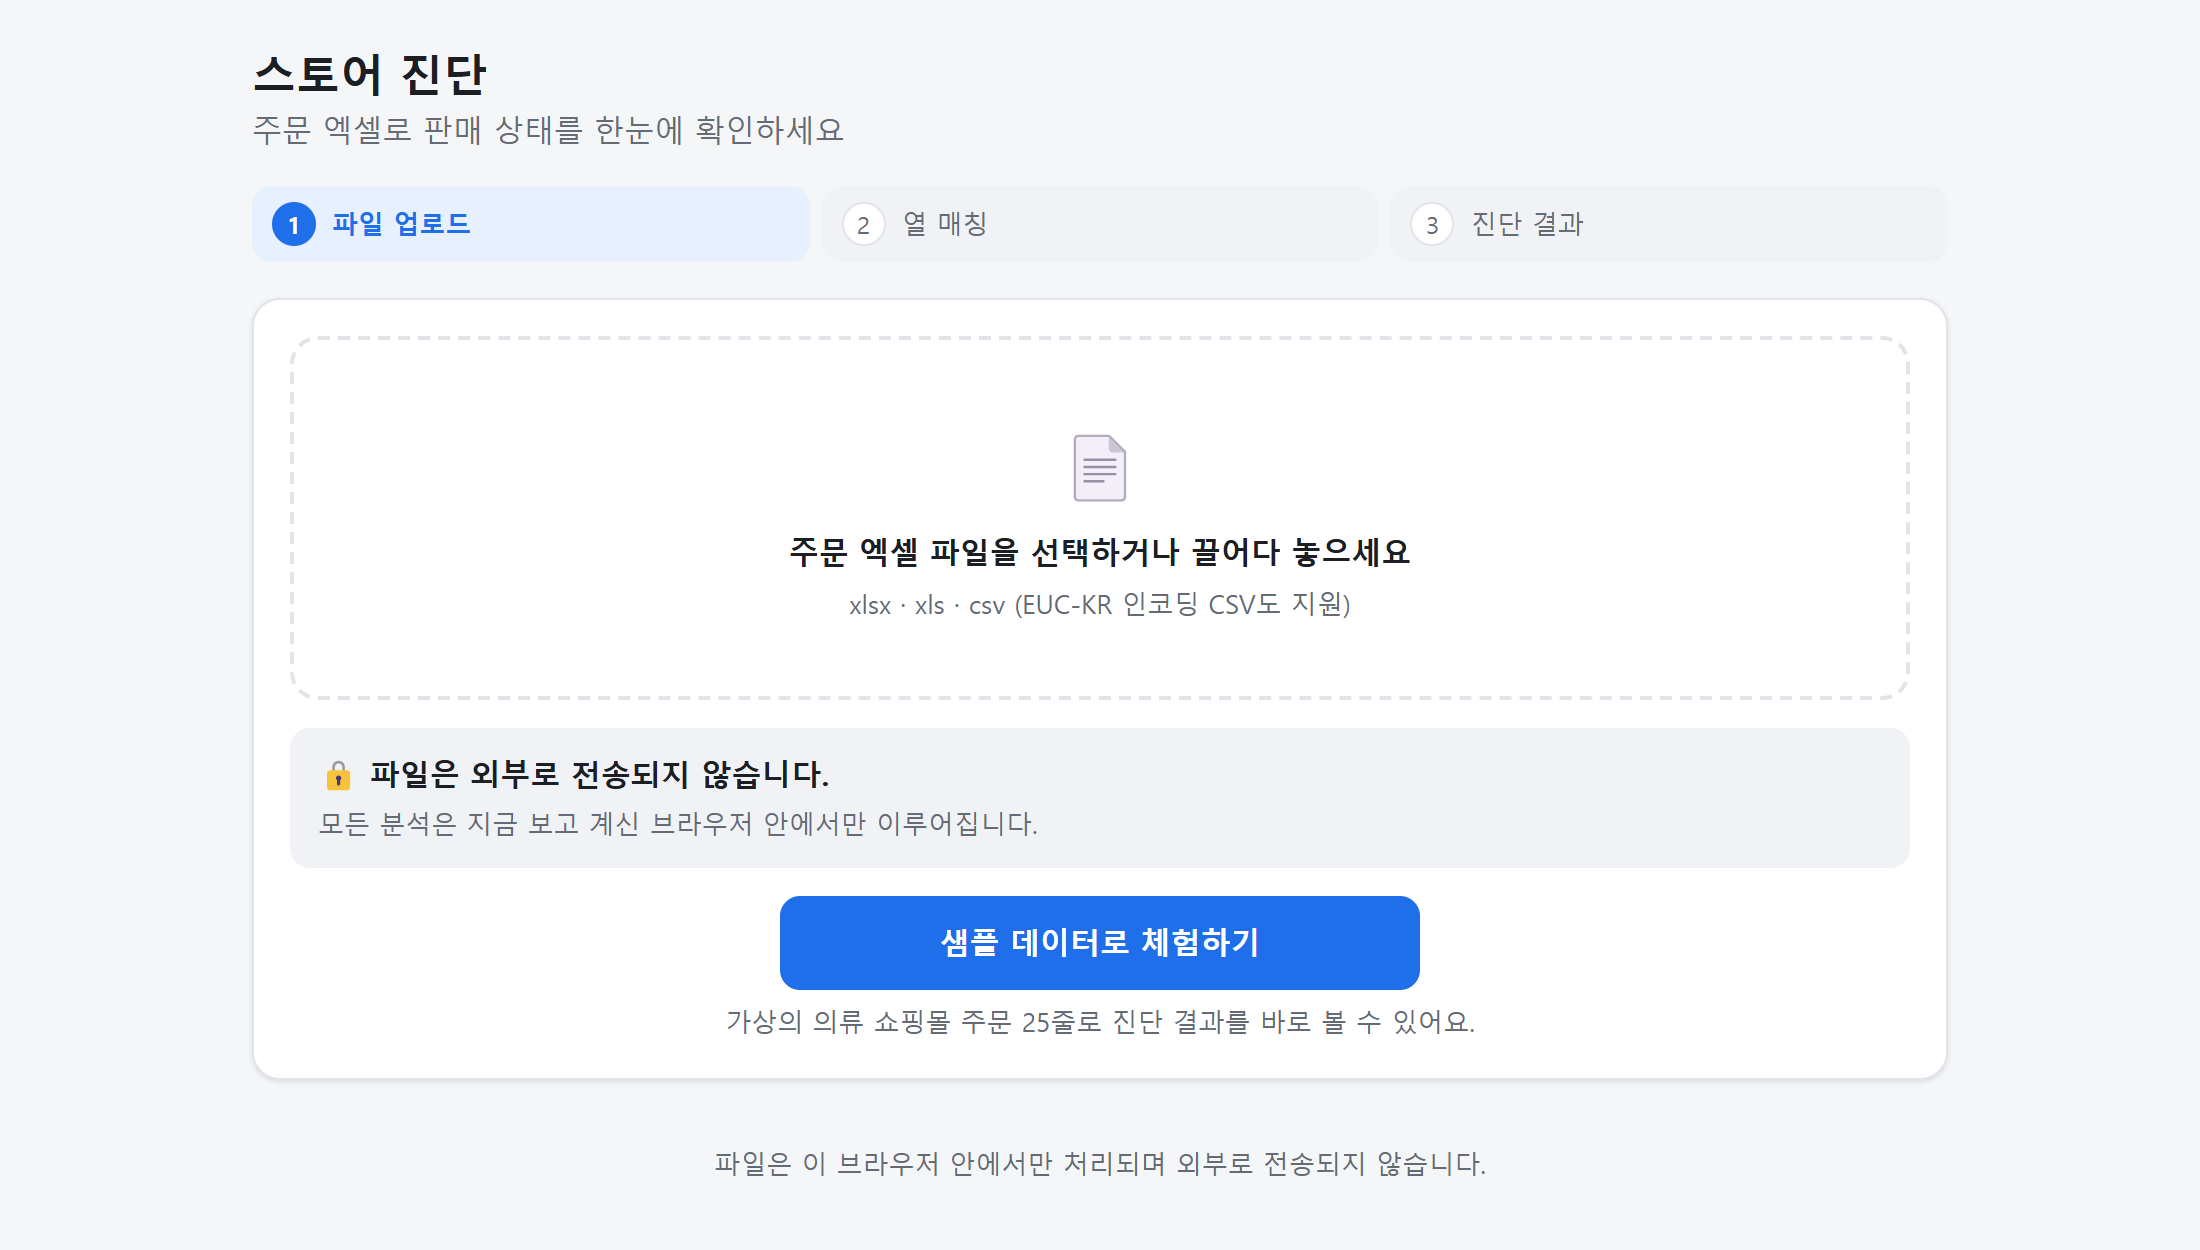
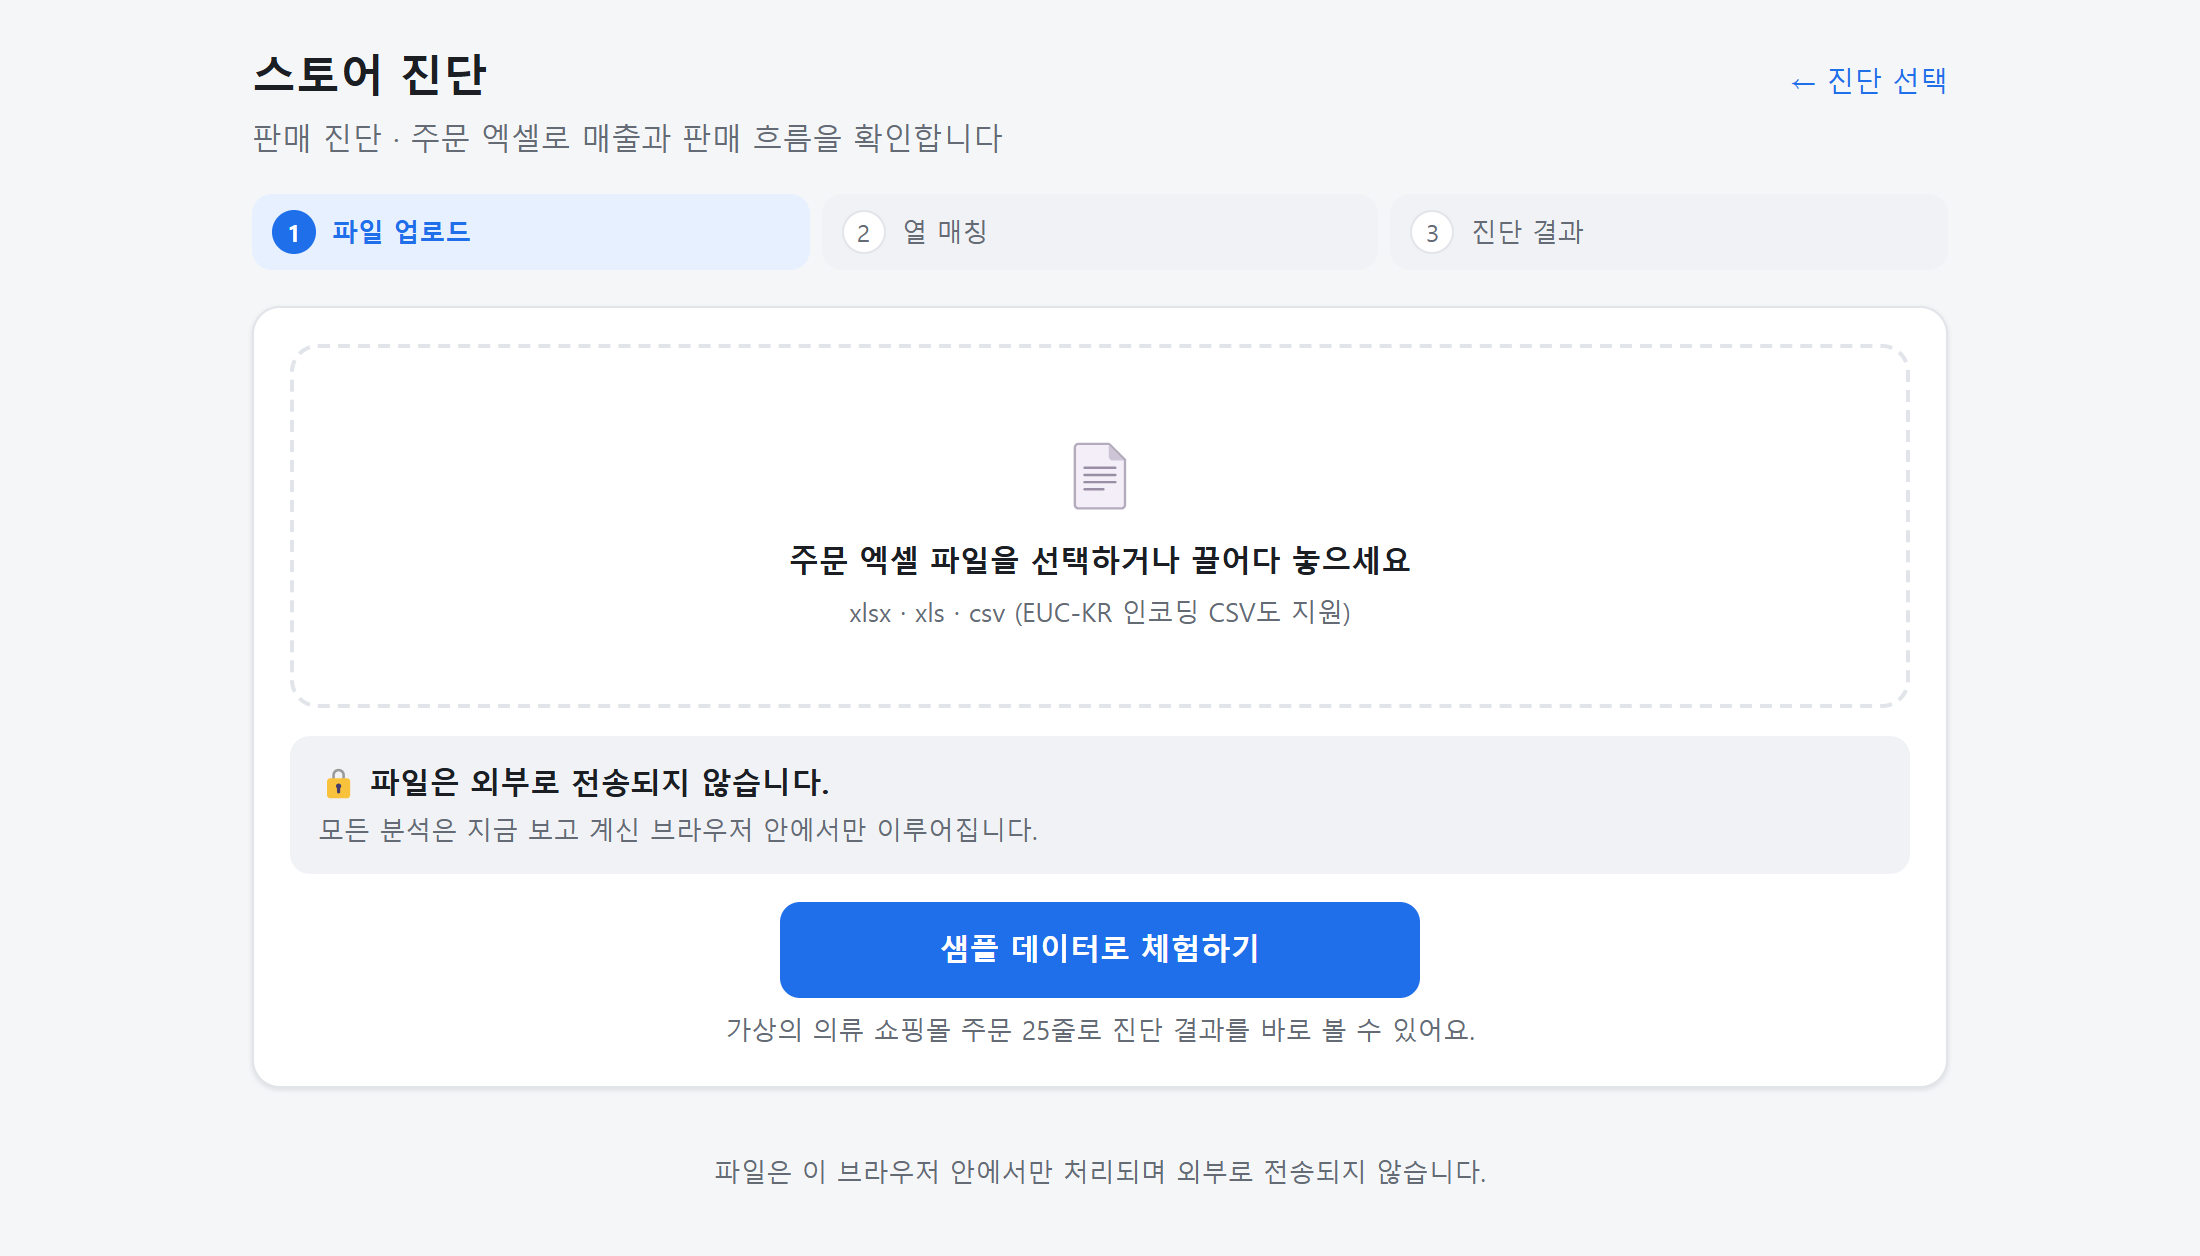
README 스크린샷 갱신 (진단 선택, 재고 진단)

diff --git a/WORK_STATUS.md b/WORK_STATUS.md
@@ -135,6 +135,8 @@
   - 판정 이유를 표에 넣었더니 데스크톱에서 로케이션 열이 잘림, 모바일은 숫자가 화면 밖 →
     데스크톱은 이유를 툴팁으로, 모바일은 카드형으로 바꾸고 이유를 카드 안에 표시
 - README: 두 진단 소개, 판정 표, 스크린샷(진단 선택·재고 결과·모바일 2장) 추가
+- 배포: 첫 push 배포가 빌드 시작 전 3초 만에 실패(지난번과 같은 Vercel↔GitHub 연결 오류로 추정) →
+  빈 커밋으로 재시도해 성공. 배포 사이트에서 재고 샘플 결과(3/6/5/3/8, 소진일 3.3·4.8·6.3일) 확인 후 스크린샷 10장 갱신
 
 ## 실행 방법
 ```
